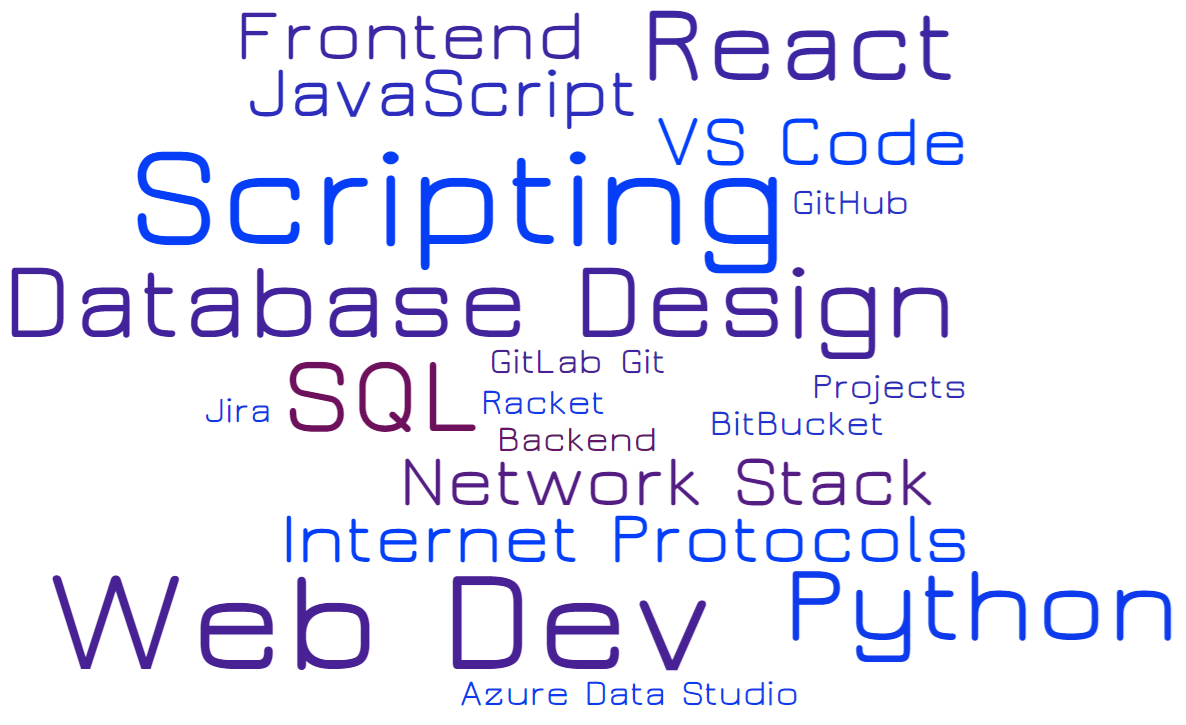
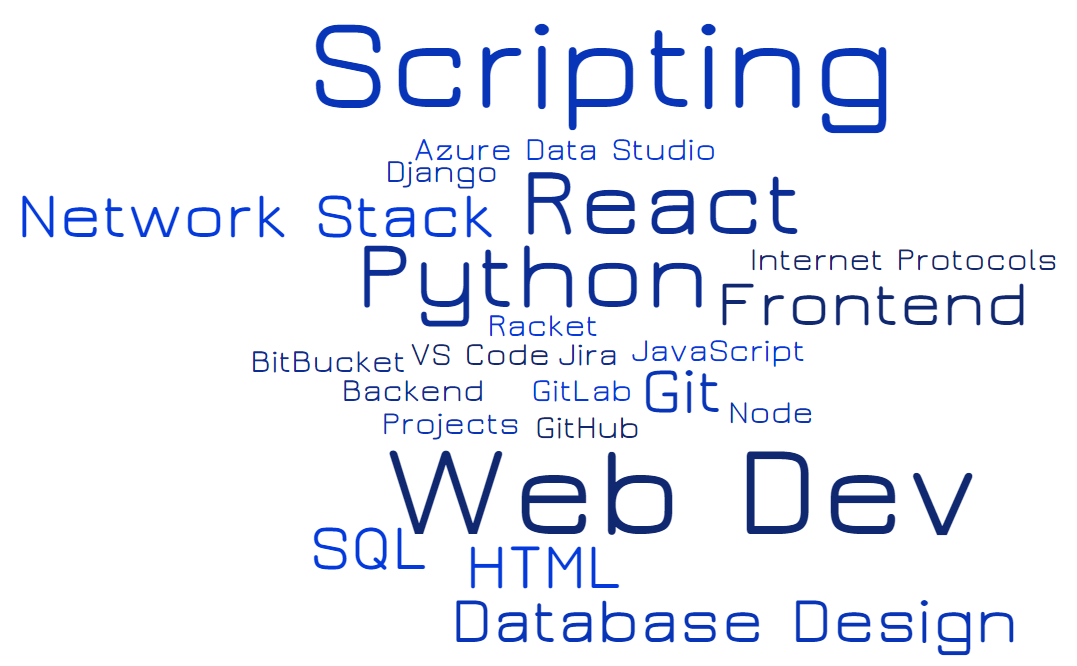
filled timebox project tile content

Changed region(s): [[0.0, 0.0, 1.0, 0.991]]

diff --git a/_includes/modals.html b/_includes/modals.html
@@ -16,26 +16,25 @@
             <h2>{{ post.title }}</h2>
             <hr class="star-primary">
             <img src="img/portfolio/{{ post.img }}" class="img-responsive img-centered" alt="{{ post.alt }}">
-            {% if post.description %}
-            <p>{{ post.description }}</p>
-            {% endif %}
             <ul class="list-inline item-details">
-              {% if post.client %}
-              <li>Client:
-                <strong>{{ post.client }}</strong>
+              <li>
+                <strong>Date:</strong>
+                {{ post.project-date }}
               </li>
-              {% endif %}
-              {% if post.project-date %}
-              <li>Date:
-                <strong>{{ post.project-date }}</strong>
+              <li>
+                <strong>Skills:</strong>
+                {{ post.skills }}
               </li>
-              {% endif %}
-              {% if post.category %}
-              <li>Service:
-                <strong>{{ post.category }}</strong>
-              </li>
-              {% endif %}
             </ul>
+            <p>
+              <strong>Description:</strong>
+              {{ post.description }}
+            </p>
+            <p>
+              <strong>Involvement:</strong>
+              {{ post.involvement }}
+            </p>
+              <img class="img-responsive" src="img/{{ post.screenshot }}" alt="project-screenshot" />
             <button type="button" class="btn btn-default" data-dismiss="modal"><i class="fa fa-times"></i>
               Close</button>
           </div>

diff --git a/_includes/welcome.html b/_includes/welcome.html
@@ -31,3 +31,8 @@
     </div>
   </div>
 </section>
+
+<!--
+  WORD CLOUD:
+  Scripting, Scripting, Scripting, Scripting, Web_Dev, Web_Dev, Web_Dev, Web_Dev, Python, Python, Python, HTML, HTML, JavaScript, Frontend, Frontend, React, React, React, VS_Code, GitHub, Database_Design, Database_Design, GitLab, Git, Git, Projects, BitBucket, Network_Stack, Network_Stack, Backend, Racket, R, Jira, SQL, SQL, Azure_Data_Studio, Internet_Protocols, Django, Node
+-->
